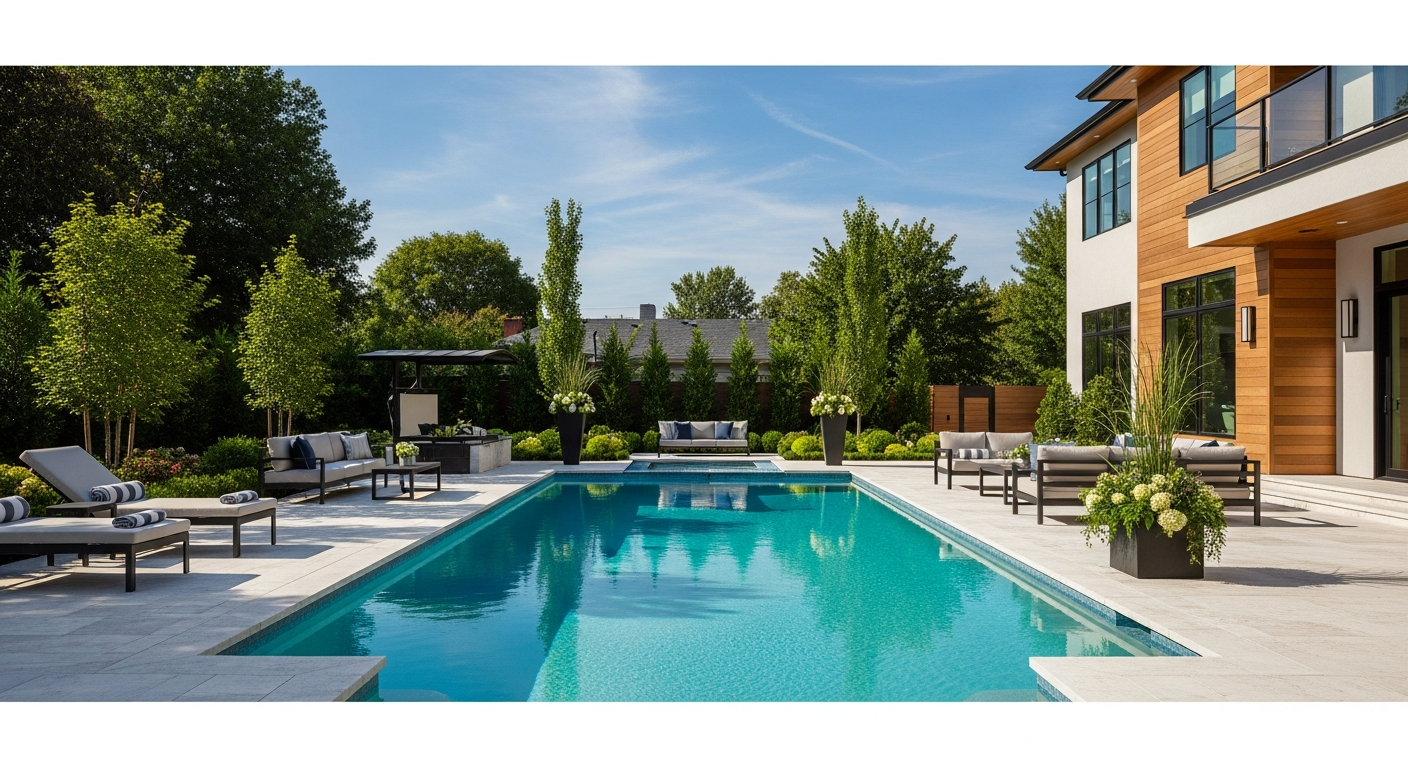
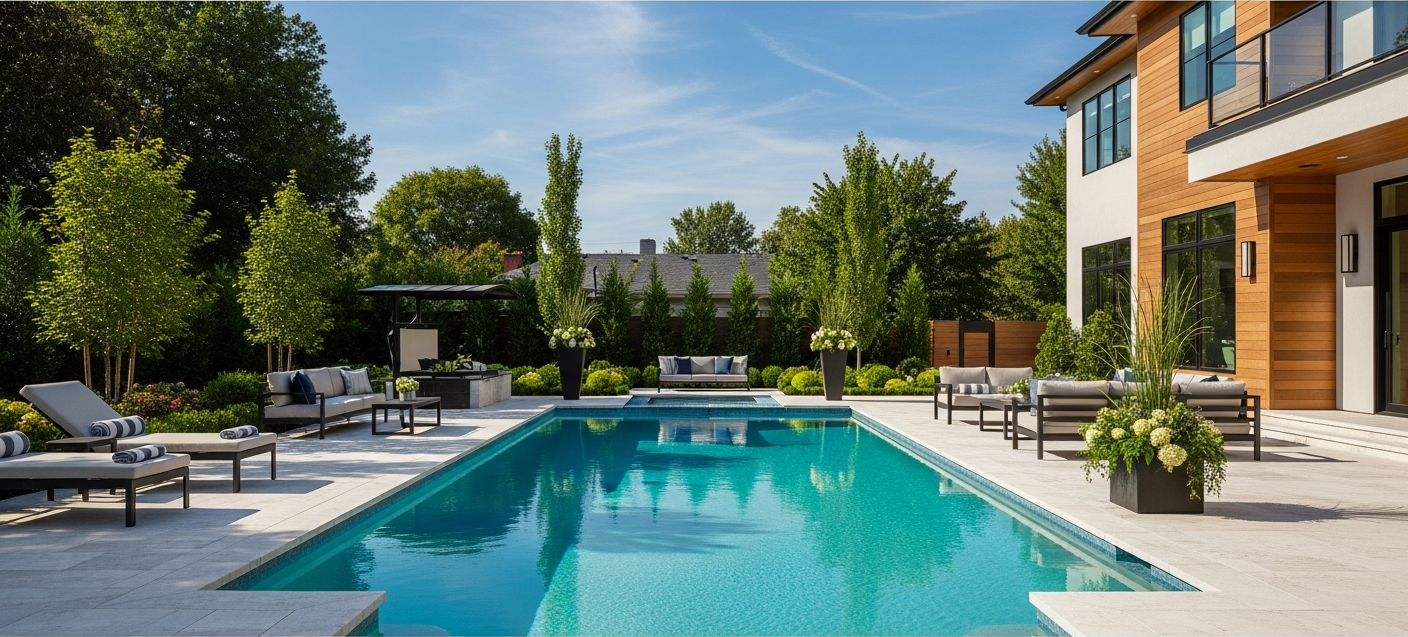
3D marquee component + new industry images + CSS updates
- Replaced IndustryRelatedPages with 3D auto-scrolling marquee
- Added marquee CSS keyframes and 3D card transforms
- Added swimming-pools, artificial-turf, tattoos, car-wraps, boat-decking images
- Updated swimming-pools and artificial-turf data files

diff --git a/components/industries/IndustryRelatedPages.tsx b/components/industries/IndustryRelatedPages.tsx
@@ -1,49 +1,127 @@
+'use client';
+
+import Image from 'next/image';
+import { cn } from '@/lib/utils';
+import { Marquee } from '@/components/ui/marquee';
 import type { IndustryData } from '@/data/industries/types';
 
-const industries = [
-  { slug: "solar", name: "Solar Energy", description: "Homeowners preview solar panels on their roof" },
-  { slug: "car-wraps", name: "Car & Vehicle Wraps", description: "Customers preview wrap colors on their vehicle" },
-  { slug: "tattoos", name: "Tattoo Studios", description: "Clients see designs on their actual skin" },
-  { slug: "swimming-pools", name: "Swimming Pools", description: "Homeowners see a pool in their backyard" },
-  { slug: "artificial-turf", name: "Artificial Turf", description: "Homeowners see turf replacing their lawn" },
-  { slug: "boat-decking", name: "Boat Decking", description: "Boat owners preview new decking materials" },
+const allIndustries = [
+  { slug: 'roofing', name: 'Roofing' },
+  { slug: 'siding', name: 'Siding' },
+  { slug: 'solar', name: 'Solar Energy' },
+  { slug: 'windows-doors', name: 'Windows & Doors' },
+  { slug: 'decking', name: 'Decking' },
+  { slug: 'flooring', name: 'Flooring' },
+  { slug: 'countertops', name: 'Countertops' },
+  { slug: 'garage-doors', name: 'Garage Doors' },
+  { slug: 'fencing', name: 'Fencing' },
+  { slug: 'gutters', name: 'Gutters' },
+  { slug: 'shutters', name: 'Shutters' },
+  { slug: 'driveways', name: 'Driveways' },
+  { slug: 'swimming-pools', name: 'Swimming Pools' },
+  { slug: 'artificial-turf', name: 'Artificial Turf' },
+  { slug: 'tattoos', name: 'Tattoo Studios' },
+  { slug: 'car-wraps', name: 'Car Wraps' },
+  { slug: 'boat-decking', name: 'Boat Decking' },
 ];
 
+function IndustryCard({ slug, name }: { slug: string; name: string }) {
+  return (
+    <a
+      href={`/industries/${slug}`}
+      className={cn(
+        'group/card relative block h-full w-36 sm:w-44 cursor-pointer overflow-hidden rounded-xl border',
+        'border-border-default hover:border-accent',
+        'transition-all duration-300 hover:scale-105'
+      )}
+    >
+      {/* Industry image */}
+      <div className="relative aspect-[4/3] w-full">
+        <Image
+          src={`/images/industries/${slug}.png`}
+          alt={name}
+          fill
+          className="object-cover"
+          sizes="(max-width: 640px) 144px, 176px"
+        />
+        {/* Gradient overlay */}
+        <div className="absolute inset-0 bg-gradient-to-t from-black/80 via-black/20 to-transparent" />
+        {/* Accent glow on hover */}
+        <div className="absolute inset-0 opacity-0 group-hover/card:opacity-100 transition-opacity duration-300 bg-accent/10" />
+      </div>
+
+      {/* Industry name */}
+      <div className="absolute bottom-0 left-0 right-0 p-3">
+        <span className="text-white font-semibold text-sm drop-shadow-lg group-hover/card:text-accent transition-colors">
+          {name}
+        </span>
+      </div>
+
+      {/* Arrow on hover */}
+      <div className="absolute top-2 right-2 opacity-0 group-hover/card:opacity-100 transition-opacity duration-300">
+        <span className="text-accent text-sm">→</span>
+      </div>
+    </a>
+  );
+}
+
 export default function IndustryRelatedPages({ data }: { data: IndustryData }) {
-  const otherIndustries = industries.filter((industry) => industry.slug !== data.slug);
+  const industries = allIndustries.filter((i) => i.slug !== data.slug);
+
+  // Split industries into 4 roughly equal columns
+  const colSize = Math.ceil(industries.length / 4);
+  const col1 = industries.slice(0, colSize);
+  const col2 = industries.slice(colSize, colSize * 2);
+  const col3 = industries.slice(colSize * 2, colSize * 3);
+  const col4 = industries.slice(colSize * 3);
 
   return (
-    <section className="py-16 px-6 bg-bg-primary">
-      <div className="max-w-[1000px] mx-auto">
-        <h2 className="text-2xl md:text-3xl font-bold mb-8 text-text-primary text-center">
+    <section className="py-16 bg-bg-primary overflow-hidden">
+      <div className="max-w-[1400px] mx-auto px-6 mb-10">
+        <h2 className="text-2xl md:text-3xl font-bold mb-4 text-text-primary text-center">
           Vizzion Works Across Industries
         </h2>
-        <p className="text-text-secondary text-center mb-10 max-w-2xl mx-auto">
+        <p className="text-text-secondary text-center max-w-2xl mx-auto">
           See how businesses in other industries use Vizzion to turn website visitors into qualified leads.
         </p>
-        <div className="grid grid-cols-1 sm:grid-cols-2 lg:grid-cols-3 gap-4">
-          {otherIndustries.map((industry) => (
-            <a
-              key={industry.slug}
-              href={`/industries/${industry.slug}`}
-              className="block p-5 rounded-xl bg-bg-secondary border border-border-default hover:border-accent transition-all duration-300 group"
-            >
-              <div className="flex items-center justify-between">
-                <div>
-                  <span className="text-text-primary font-semibold group-hover:text-accent transition-colors">
-                    {industry.name}
-                  </span>
-                  <span className="text-sm text-text-tertiary mt-1 block">
-                    {industry.description}
-                  </span>
-                </div>
-                <span className="text-text-tertiary group-hover:text-accent transition-colors">
-                  &rarr;
-                </span>
-              </div>
-            </a>
-          ))}
+      </div>
+
+      {/* 3D Marquee */}
+      <div className="relative flex h-[500px] w-full flex-row items-center justify-center gap-4 overflow-hidden [perspective:300px]">
+        <div
+          className="flex flex-row items-center gap-4"
+          style={{
+            transform:
+              'translateX(-100px) translateY(0px) translateZ(-100px) rotateX(20deg) rotateY(-10deg) rotateZ(20deg)',
+          }}
+        >
+          <Marquee pauseOnHover vertical className="[--duration:20s]">
+            {col1.map((industry) => (
+              <IndustryCard key={industry.slug} {...industry} />
+            ))}
+          </Marquee>
+          <Marquee reverse pauseOnHover vertical className="[--duration:20s]">
+            {col2.map((industry) => (
+              <IndustryCard key={industry.slug} {...industry} />
+            ))}
+          </Marquee>
+          <Marquee reverse pauseOnHover vertical className="[--duration:20s]">
+            {col3.map((industry) => (
+              <IndustryCard key={industry.slug} {...industry} />
+            ))}
+          </Marquee>
+          <Marquee pauseOnHover vertical className="[--duration:20s]">
+            {col4.map((industry) => (
+              <IndustryCard key={industry.slug} {...industry} />
+            ))}
+          </Marquee>
         </div>
+
+        {/* Edge fade overlays */}
+        <div className="from-bg-primary pointer-events-none absolute inset-x-0 top-0 h-1/4 bg-gradient-to-b" />
+        <div className="from-bg-primary pointer-events-none absolute inset-x-0 bottom-0 h-1/4 bg-gradient-to-t" />
+        <div className="from-bg-primary pointer-events-none absolute inset-y-0 left-0 w-1/4 bg-gradient-to-r" />
+        <div className="from-bg-primary pointer-events-none absolute inset-y-0 right-0 w-1/4 bg-gradient-to-l" />
       </div>
     </section>
   );

diff --git a/app/globals.css b/app/globals.css
@@ -81,6 +81,20 @@
      ============================================== */
   --animate-orbit: orbit calc(var(--duration) * 1s) linear infinite;
 
+  /* MagicUI Marquee animations */
+  --animate-marquee: marquee var(--duration) infinite linear;
+  --animate-marquee-vertical: marquee-vertical var(--duration) linear infinite;
+
+  @keyframes marquee {
+    from { transform: translateX(0); }
+    to { transform: translateX(calc(-100% - var(--gap))); }
+  }
+
+  @keyframes marquee-vertical {
+    from { transform: translateY(0); }
+    to { transform: translateY(calc(-100% - var(--gap))); }
+  }
+
   @keyframes orbit {
     0% {
       transform: rotate(calc(var(--angle) * 1deg))
@@ -203,6 +217,7 @@
       transform: translate(2px, -2px);
     }
   }
+
 }
 
 @layer base {
@@ -279,6 +294,35 @@
   .animate-impact {
     animation: impact 0.4s ease-out;
   }
+}
+
+/* 3D Industry Marquee */
+@keyframes marquee-scroll {
+  0% {
+    transform: translateX(0);
+  }
+  100% {
+    transform: translateX(-50%);
+  }
+}
+
+.marquee-track {
+  animation: marquee-scroll 45s linear infinite;
+  will-change: transform;
+}
+
+.marquee-viewport:hover .marquee-track {
+  animation-play-state: paused;
+}
+
+.marquee-card {
+  transform: translateZ(0) rotateY(-2deg);
+  transition: transform 0.3s ease, border-color 0.3s ease;
+  transform-style: preserve-3d;
+}
+
+.marquee-card:hover {
+  transform: translateZ(40px) rotateY(0deg) scale(1.08);
 }
 
 /* Prevent layout shift */

diff --git a/components/ui/marquee.tsx b/components/ui/marquee.tsx
@@ -1,0 +1,51 @@
+import { ComponentPropsWithoutRef } from "react"
+import { cn } from "@/lib/utils"
+
+interface MarqueeProps extends ComponentPropsWithoutRef<"div"> {
+  className?: string
+  reverse?: boolean
+  pauseOnHover?: boolean
+  children: React.ReactNode
+  vertical?: boolean
+  repeat?: number
+}
+
+export function Marquee({
+  className,
+  reverse = false,
+  pauseOnHover = false,
+  children,
+  vertical = false,
+  repeat = 4,
+  ...props
+}: MarqueeProps) {
+  return (
+    <div
+      {...props}
+      className={cn(
+        "group flex [gap:var(--gap)] overflow-hidden p-2 [--duration:40s] [--gap:1rem]",
+        {
+          "flex-row": !vertical,
+          "flex-col": vertical,
+        },
+        className
+      )}
+    >
+      {Array(repeat)
+        .fill(0)
+        .map((_, i) => (
+          <div
+            key={i}
+            className={cn("flex shrink-0 justify-around [gap:var(--gap)]", {
+              "animate-marquee flex-row": !vertical,
+              "animate-marquee-vertical flex-col": vertical,
+              "group-hover:[animation-play-state:paused]": pauseOnHover,
+              "[animation-direction:reverse]": reverse,
+            })}
+          >
+            {children}
+          </div>
+        ))}
+    </div>
+  )
+}

diff --git a/data/industries/artificial-turf.ts b/data/industries/artificial-turf.ts
@@ -39,8 +39,8 @@ export const artificialTurfData: IndustryData = {
   showcase: {
     headline: "From Patchy Lawn to Perfect Turf in Seconds",
     subtext: "This is exactly what your website visitors experience. They upload a photo of their yard — and within seconds, they see lush artificial turf replacing their existing lawn.",
-    beforeImage: "/images/demo-yard-grass.png",
-    afterImage: "/images/demo-yard-turf.png",
+    beforeImage: "/images/industries/artificial-turf-before.png",
+    afterImage: "/images/industries/artificial-turf.png",
     beforeLabel: "Their Current Lawn",
     afterLabel: "With Artificial Turf",
   },

diff --git a/data/industries/swimming-pools.ts b/data/industries/swimming-pools.ts
@@ -39,8 +39,8 @@ export const swimmingPoolsData: IndustryData = {
   showcase: {
     headline: "From Empty Backyard to Dream Pool in Seconds",
     subtext: "This is what your website visitors experience. They upload a photo of their backyard — and within seconds, they see a pool installed in their actual yard.",
-    beforeImage: "/images/demo-backyard-empty.png",
-    afterImage: "/images/demo-backyard-pool.png",
+    beforeImage: "/images/industries/swimming-pools-before.png",
+    afterImage: "/images/industries/swimming-pools.png",
     beforeLabel: "Their Backyard",
     afterLabel: "With Pool Installed",
   },
